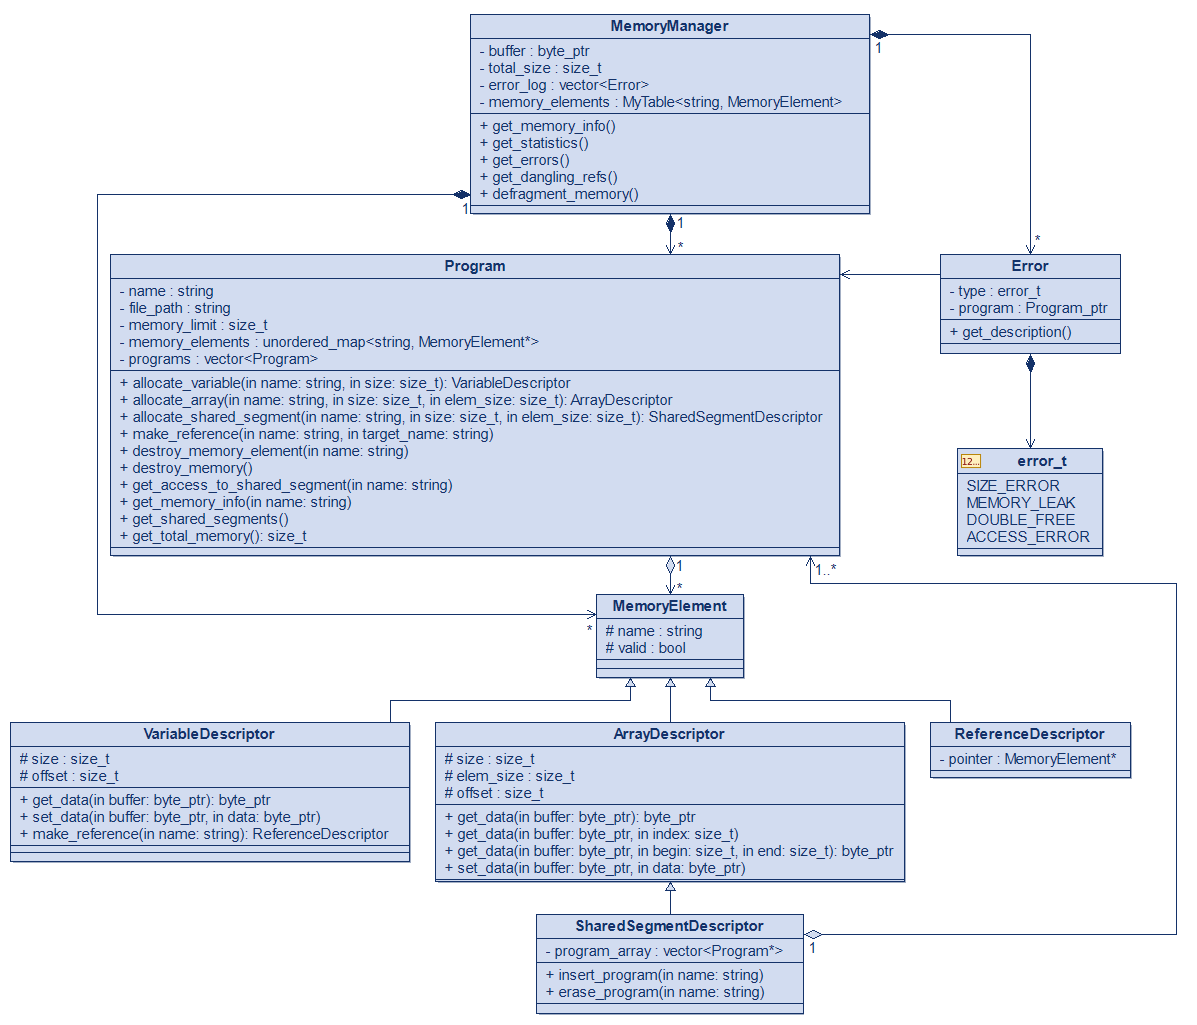
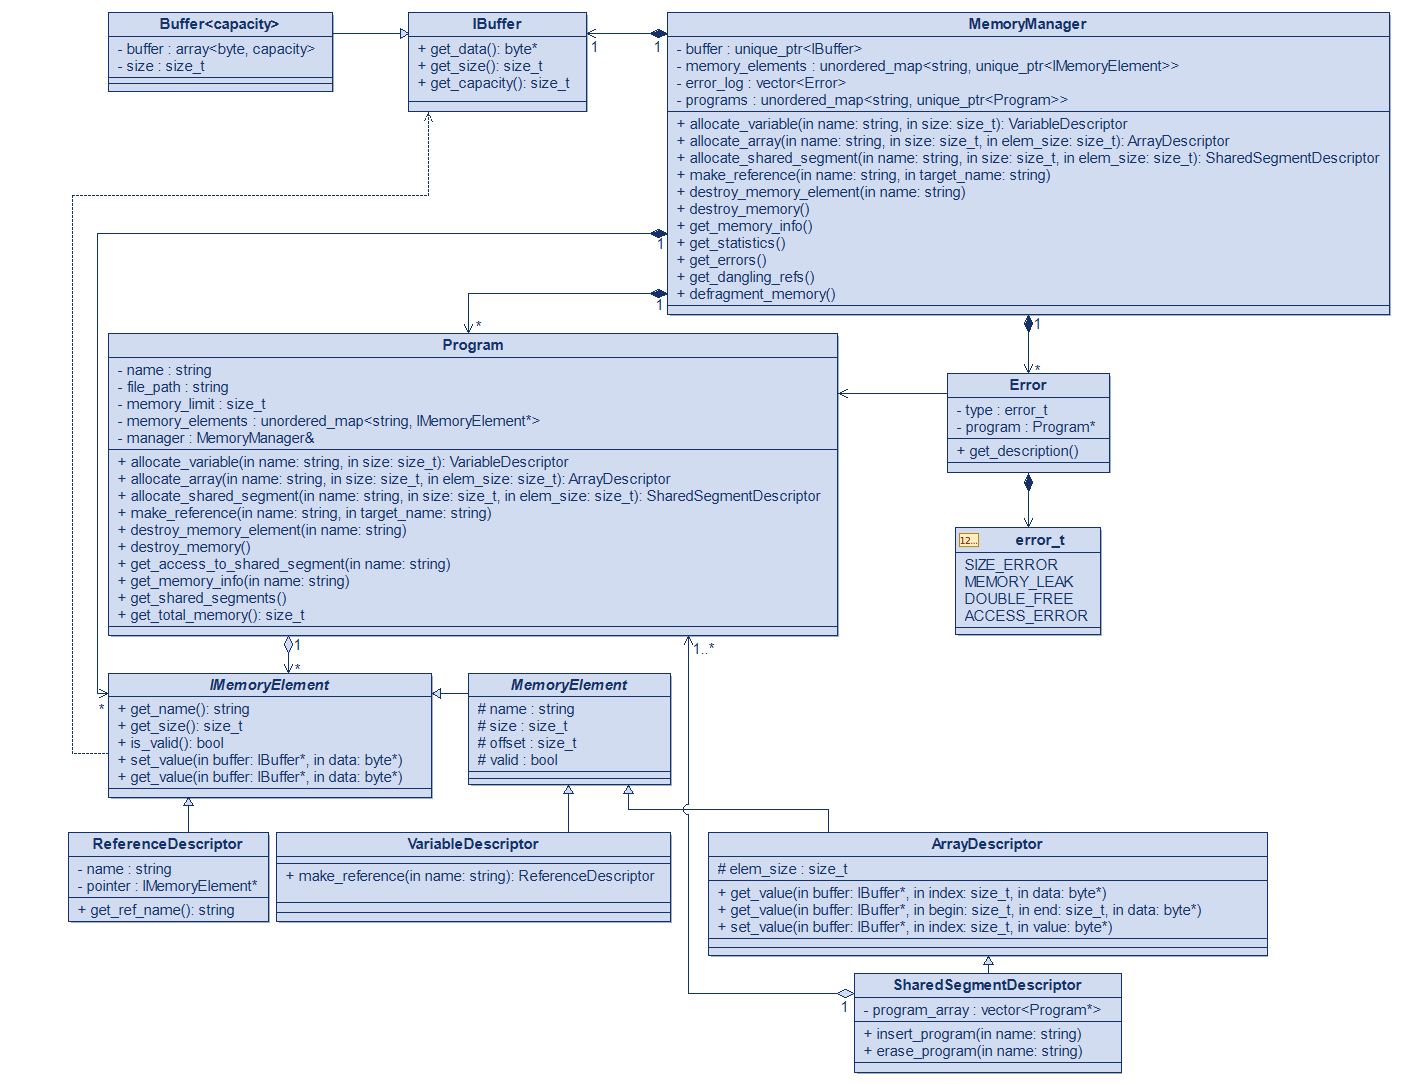
Changed structure of elements, added base methods and other elements of project

diff --git a/3/Memory/include/Memory/ArrayDescriptor.hpp b/3/Memory/include/Memory/ArrayDescriptor.hpp
@@ -2,47 +2,33 @@
 #define ARRAYDESCRIPTOR_HPP
 
 #include <string>
-#include "Memory/MemoryElement.hpp"
-#include "Memory/ReferenceDescriptor.hpp"
+#include <Memory/MemoryElement.hpp>
+#include <Memory/ReferenceDescriptor.hpp>
 
 namespace MemoryNameSpace{
 
 class ArrayDescriptor : public MemoryElement{
 protected:
-    size_t size_;
     size_t element_size_;
-    size_t offset_;
 
 public:
-    ArrayDescriptor(const std::string& name, size_t size, size_t element_size, size_t offset)
-            : MemoryElement(name), size_(size), element_size_(element_size), offset_(offset) {};
+    ArrayDescriptor(const std::string& name, size_t size, size_t offset, size_t element_size)
+            : MemoryElement(name, size, offset), element_size_(element_size) {};
 
-    std::byte* data(std::byte* buffer) override {
-        return buffer + offset_;
+    using MemoryElement::get_value;
+    void get_value(IBuffer* buffer, size_t index, const std::byte* value) const {
+        std::byte* target = buffer->get_data() + offset_ + index * element_size_;
+        std::copy(target, target + element_size_, value);
+    }
+    void get_value(IBuffer* buffer, size_t begin, size_t end, const std::byte* value) const {
+        std::byte* target = buffer->get_data() + offset_ + begin * element_size_;
+        std::copy(target, target + element_size_ * (end - begin), value);
     }
 
-    const std::byte* data(std::byte* buffer) const override {
-        return buffer + offset_;
-    }
-
-    std::byte* data(std::byte* buffer, size_t index){
-        return buffer + offset_ + index;
-    }
-
-    const std::byte* data(std::byte* buffer, size_t index) const {
-        return buffer + offset_ + index;
-    }
-
-    std::pair<std::byte*, std::byte*> data(std::byte* buffer, size_t begin, size_t end){
-        return std::pair<std::byte*, std::byte*>{buffer + offset_ + begin, buffer + offset_ + end};
-    }
-    
-    std::pair<const std::byte*, const std::byte*> data(std::byte* buffer, size_t begin, size_t end) const{
-        return std::pair<const std::byte*, const std::byte*>{buffer + offset_ + begin, buffer + offset_ + end};
-    }
-
-    void set_data(std::byte* buffer, const std::byte* data) override {
-        std::copy(data, data + size_, buffer + offset_);
+    using MemoryElement::set_value;
+    void set_value(IBuffer* buffer, size_t index, const std::byte* value){
+        std::byte* target = buffer->get_data() + offset_ + index * element_size_;
+        std::copy(value, value + element_size_, target);
     }
 
     ReferenceDescriptor make_reference(std::string name){

diff --git a/3/Memory/include/Memory/MemoryElement.hpp b/3/Memory/include/Memory/MemoryElement.hpp
@@ -3,25 +3,43 @@
 
 #include <string>
 #include <cstddef>
+#include <Memory/Buffer.hpp>
+
 namespace MemoryNameSpace{
 
-class MemoryElement{
+class IMemoryElement{
+public:
+    virtual const std::string& get_name() const noexcept = 0;
+    virtual size_t get_size() const noexcept = 0;
+    virtual bool is_valid() const noexcept = 0;
+    virtual void get_value(IBuffer* buffer, const std::byte* value) const = 0;
+    virtual void set_value(IBuffer* buffer, const std::byte* value) = 0;
+    virtual ~IMemoryElement(){};
+};
+
+class MemoryElement : public IMemoryElement{
 protected:
     std::string name_;
+    size_t size_;
+    size_t offset_;
     bool valid_;
 
 public:
-    MemoryElement(const std::string& name) : name_(name), valid_(true) {};
-    virtual std::byte* data(std::byte* buffer) = 0;
-    virtual const std::byte* data(std::byte* buffer) const = 0;
-    virtual void set_data(std::byte* buffer, const std::byte* data) = 0;
-    virtual ~MemoryElement() {};
-    virtual bool is_valid() { return valid_; }
-};
-
-struct memory_wrapper final{
-    size_t size;
-    size_t offset;
+    MemoryElement(const std::string& name, size_t size, size_t offset)
+            : name_(name), size_(size), offset_(offset), valid_(true) {};
+    const std::string& get_name() const noexcept { return name_; }
+    size_t get_size() const noexcept { return size_; }
+    bool is_valid() const noexcept { return valid_; }
+    void get_value(IBuffer* buffer, const std::byte* value) const override {
+        std::byte* target = buffer->get_data() + offset_;
+        std::copy(target, target + size_, value);
+    }
+    void set_value(IBuffer* buffer, const std::byte* value) override {
+        std::byte* target = buffer->get_data() + offset_;
+        std::copy(value, value + size_, target);
+    }
+    virtual void make_abstract() const noexcept = 0;
+    virtual ~MemoryElement(){};
 };
 
 }

diff --git a/3/Memory/include/Memory/ReferenceDescriptor.hpp b/3/Memory/include/Memory/ReferenceDescriptor.hpp
@@ -3,34 +3,36 @@
 
 #include <string>
 #include <memory>
-#include "Memory/VariableDescriptor.hpp"
+#include <Memory/VariableDescriptor.hpp>
 
 namespace MemoryNameSpace{
 
-class ReferenceDescriptor final : public MemoryElement{
+class ReferenceDescriptor final : public IMemoryElement{
 private:
-    std::unique_ptr<MemoryElement> pointer_;
+    std::string name_;
+    IMemoryElement* pointer_;
 
 public:
     ReferenceDescriptor(const std::string& name, MemoryElement* pointer)
-            : MemoryElement(name), pointer_(pointer) {};
+            : name_(name), pointer_(pointer) {};
 
-    std::byte* data(std::byte* buffer) override {
-         return pointer_->data(buffer);
+    const std::string& get_name() const noexcept override {
+        return pointer_->get_name();
     }
-
-    const std::byte* data(std::byte* buffer) const override {
-        return pointer_->data(buffer);
+    size_t get_size() const noexcept override {
+        return pointer_->get_size();
     }
-
-    void set_data(std::byte* buffer, const std::byte* data) override {
-        pointer_->set_data(buffer, data);
+    bool is_valid() const noexcept override {
+        return pointer_->is_valid();
     }
-
-    bool is_valid() override {
-        if(pointer_ == nullptr || pointer_->is_valid() == false)
-            valid_ = false;
-        return valid_;
+    void get_value(IBuffer* buffer, const std::byte* value) const {
+        pointer_->get_value(buffer, value);
+    }
+    void set_value(IBuffer* buffer, const std::byte* value) override {
+        pointer_->set_value(buffer, value);
+    }
+    const std::string& get_ref_name() const noexcept {
+        return name_;
     }
 };
 

diff --git a/3/Memory/include/Memory/SharedSegmentDescriptor.hpp b/3/Memory/include/Memory/SharedSegmentDescriptor.hpp
@@ -5,9 +5,9 @@
 #include <vector>
 #include <memory>
 #include <algorithm>
-#include "Memory/MemoryElement.hpp"
-#include "Memory/ArrayDescriptor.hpp"
-#include "Memory/Program.hpp"
+#include <Memory/MemoryElement.hpp>
+#include <Memory/ArrayDescriptor.hpp>
+#include <Memory/Program.hpp>
 
 namespace MemoryNameSpace{
 
@@ -17,13 +17,12 @@ private:
 
 public:
     SharedSegmentDescriptor(const std::string& name, size_t size, size_t element_size, size_t offset, Program* program)
-            : ArrayDescriptor(name, size, element_size, offset)
+            : ArrayDescriptor(name, size, offset, element_size)
             , programs_(std::vector<std::unique_ptr<Program>>{std::unique_ptr<Program>{program}}) {};
     
     void insert_program(Program* program){
         programs_.push_back(std::unique_ptr<Program>{program});
     }
-
     void erase_program(Program* program){
         auto it = std::find_if(programs_.begin(), programs_.end(),
                                 [&program](std::unique_ptr<Program> cur_program){ return cur_program.get() == program; });

diff --git a/3/Memory/include/Memory/VariableDescriptor.hpp b/3/Memory/include/Memory/VariableDescriptor.hpp
@@ -2,31 +2,16 @@
 #define VARIABLEDESCRIPTOR_HPP
 
 #include <string>
-#include "Memory/MemoryElement.hpp"
-#include "Memory/ReferenceDescriptor.hpp"
+#include <cstddef>
+#include <Memory/MemoryElement.hpp>
+#include <Memory/ReferenceDescriptor.hpp>
 
 namespace MemoryNameSpace{
 
 class VariableDescriptor final : public MemoryElement{
-private:
-    size_t size_;
-    size_t offset_;
-
 public:
     VariableDescriptor(const std::string& name, size_t size, size_t offset)
-            : MemoryElement(name), size_(size), offset_(offset) {};
-
-    std::byte* data(std::byte* buffer) override {
-        return buffer + offset_;
-    }
-
-    const std::byte* data(std::byte* buffer) const override {
-        return buffer + offset_;
-    }
-
-    void set_data(std::byte* buffer, const std::byte* data) override {
-        std::copy(data, data + size_, buffer + offset_);
-    }
+            : MemoryElement(name, size, offset) {};
 
     ReferenceDescriptor make_reference(std::string name){
         return ReferenceDescriptor{name, this};

diff --git a/3/Memory/include/Memory/Buffer.hpp b/3/Memory/include/Memory/Buffer.hpp
@@ -1,0 +1,41 @@
+#ifndef BUFFER_HPP
+#define BUFFER_HPP
+
+#include <cstddef>
+#include <array>
+
+namespace MemoryNameSpace{
+
+class IBuffer final{
+public:
+    virtual std::byte* get_data() noexcept = 0;
+    virtual const std::byte* get_data() const noexcept = 0;
+    virtual size_t get_size() const noexcept = 0;
+    virtual size_t get_capacity() const noexcept = 0;
+    virtual ~IBuffer(){}
+};
+
+template<size_t capacity_>
+class Buffer final : public IBuffer{
+private:
+    std::array<std::byte, capacity_> buffer_;
+    size_t size_;
+
+public:
+    std::byte* get_data() noexcept override {
+        return buffer_.data();
+    }
+    const std::byte* get_data() const noexcept override {
+        return buffer_.data();
+    }
+    constexpr size_t get_size() const noexcept override {
+        return size_;
+    }
+    constexpr size_t get_capacity() const noexcept override {
+        return capacity_;
+    }
+};
+
+}
+
+#endif

diff --git a/3/Memory/include/Memory/Program.hpp b/3/Memory/include/Memory/Program.hpp
@@ -1,10 +1,31 @@
 #ifndef PROGRAM_HPP
 #define PROGRAM_HPP
 
+#include <string>
+#include <unordered_map>
+#include <vector>
+#include <Memory/Manager.hpp>
+#include <Memory/MemoryElement.hpp>
+#include <Memory/VariableDescriptor.hpp>
+#include <Memory/ArrayDescriptor.hpp>
+#include <Memory/SharedSegmentDescriptor.hpp>
+#include <Memory/ReferenceDescriptor.hpp>
+
+
 namespace MemoryNameSpace{
 
 class Program final{
-    
+private:
+    std::string name_;
+    std::string file_path_;
+    size_t memory_limit_;
+    std::unordered_map<std::string, IMemoryElement*> memory_elements_;
+    Manager& manager_;
+
+public:
+    VariableDescriptor allocate_variable(const std::string& name, size_t size){
+
+    }
 };
 
 }

diff --git a/3/Memory/include/Memory/Manager.hpp b/3/Memory/include/Memory/Manager.hpp
@@ -1,0 +1,28 @@
+#ifndef MANAGER_HPP
+#define MANAGER_HPP
+
+#include <memory>
+#include <unordered_map>
+#include <string>
+#include <Memory/Buffer.hpp>
+#include <Memory/MemoryElement.hpp>
+#include <Memory/Error.hpp>
+
+namespace MemoryNameSpace{
+
+class Manager final{
+private:
+    std::unique_ptr<IBuffer> buffer_;
+    std::unordered_map<std::string, std::unique_ptr<IMemoryElement>> memory_elements_;
+    std::vector<Error> error_log_;
+    std::unordered_map<std::string, std::unique_ptr<Program>> programs_;
+
+public:
+    VariableDescriptor allocate_variable(const std::string& name, size_t size){
+
+    }
+};
+
+}
+
+#endif

diff --git a/3/Memory/include/Memory/Error.hpp b/3/Memory/include/Memory/Error.hpp
@@ -1,0 +1,23 @@
+#ifndef ERROR_HPP
+#define ERROR_HPP
+
+#include <Memory/Program.hpp>
+
+namespace MemoryNameSpace{
+
+enum error_t {
+    SIZE_ERROR = 1,
+    MEMORY_LEAKDOUBLEFREE = 2,
+    DOUBLE_FREE = 3,
+    ACCESS_ERROR = 4,
+};
+
+class Error final{
+private:
+    error_t type_;
+    Program& program_;
+};
+
+}
+
+#endif
